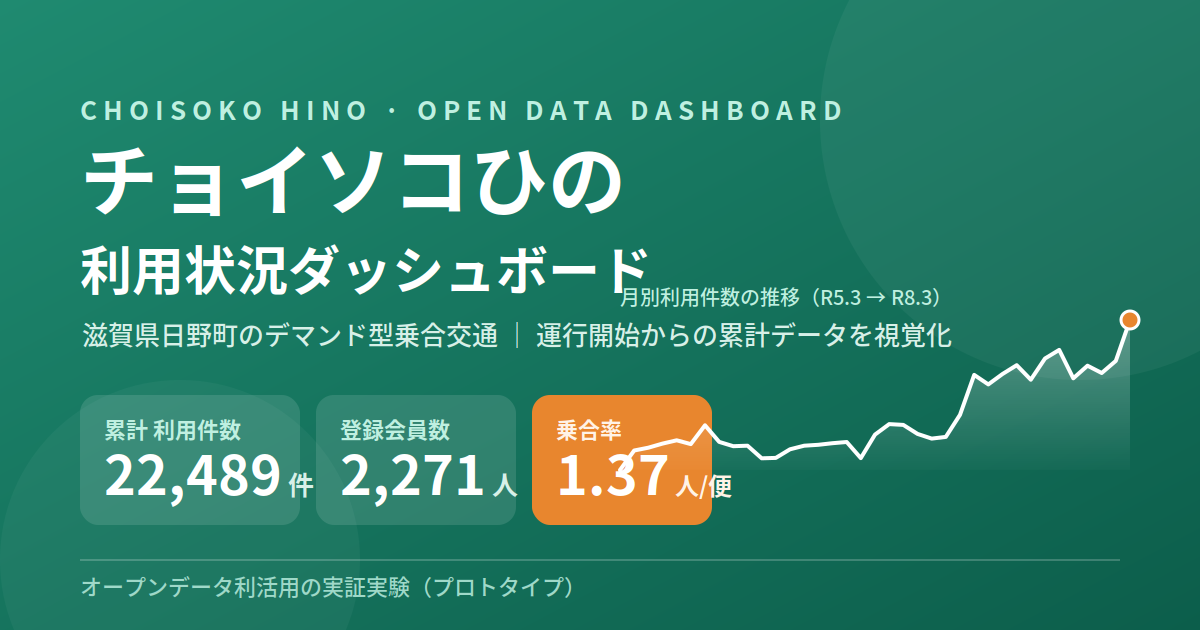
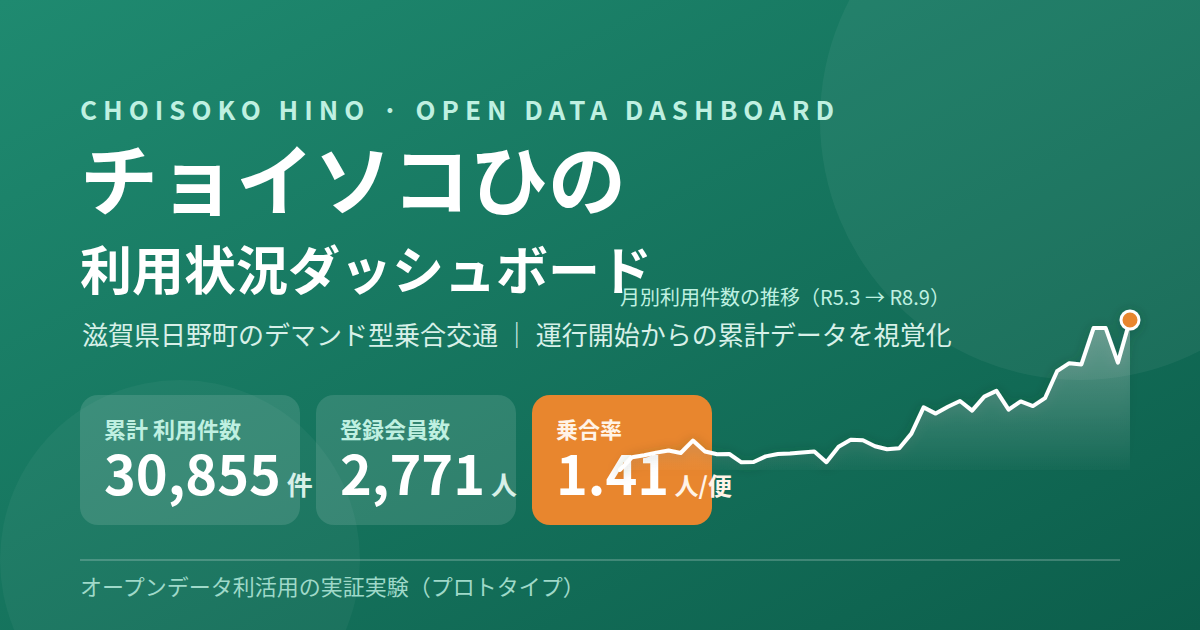
令和8年9月末までの利用状況（R8.9）を追加
日野町公開の「チョイソコひの利用状況（R5.3.1〜R8.9.30 累計）」PDF から
データを抽出し、集計時点タブに R8.9（3年7か月）を追加。

- monthly.csv: R8.7〜R8.9 の3か月を追加（利用件数 1,553 / 1,249 / 1,624）
- monthly.csv: R8.6 の利用件数・1日当たり件数を R8.9 版の修正値に更新
  （1,544 件・70.1 件/日 → 1,554 件・70.6 件/日）
- monthly.csv: R7.2 / R7.3 の月別利用人数の取り違えを R7.3 版の記載どおり修正
  （128 / 129 → 129 / 128）
- monthly.csv: ラベル末尾が隠れている R8.4 の月別利用人数を 242 → 240（推定）に修正
- summary / age / hourly / weekday / booking_timing / booking_method: R8.9 行を追加
- stops.csv: 目的地停留所 上位15 を R8.9 累計に更新
- area.csv: 時点列を追加し、R8.6 と R8.9 の両方を収録
- index.html: 既定の集計時点を R8.9 に変更。地区テーブルを area.csv の時点で切り替え。
  原資料の男女内訳の合計が利用会員数と一致しない時点に注記を表示
- 出典: R8.9 版を追加。町サイトから掲載終了した R8.6 版は Internet Archive 保存版へ変更
- assets/ogp.svg, ogp.png: R8.3 のままだった数値と推移グラフを R8.9 に更新
- README.md: 上記の修正内容と原資料の不一致を追記

diff --git a/index.html b/index.html
@@ -15,7 +15,7 @@
 <meta property="og:image" content="https://kken78.github.io/choisoko-hino-dashboard/assets/ogp.png">
 <meta property="og:image:width" content="1200">
 <meta property="og:image:height" content="630">
-<meta property="og:image:alt" content="チョイソコひの 利用状況ダッシュボード — 累計利用件数22,489件、登録会員2,271人、乗合率1.37人/便">
+<meta property="og:image:alt" content="チョイソコひの 利用状況ダッシュボード — 累計利用件数30,855件、登録会員2,771人、乗合率1.41人/便">
 <meta property="og:site_name" content="チョイソコひの ダッシュボード">
 <meta property="og:locale" content="ja_JP">
 <meta name="twitter:card" content="summary_large_image">
@@ -179,7 +179,7 @@ body.embed section{padding:14px 0}
     <div class="eyebrow">CHOISOKO HINO · OPEN DATA DASHBOARD</div>
     <h1>チョイソコひの 利用状況ダッシュボード</h1>
     <p class="sub">滋賀県日野町のデマンド型乗合交通「チョイソコひの」の運行レポートを抽出・視覚化した、オープンデータ利活用の実証実験（プロトタイプ）です。運行開始（令和5年3月）からの累計データを掲載しています。</p>
-    <div class="period-badge" id="periodBadge">運行開始 令和5年3月 〜 最新 令和8年6月</div>
+    <div class="period-badge" id="periodBadge">運行開始 令和5年3月 〜 最新 令和8年9月</div>
   </div>
 </header>
 
@@ -191,7 +191,8 @@ body.embed section{padding:14px 0}
       <button data-t="R6.3">令和6年3月<small>（1年）</small></button>
       <button data-t="R7.3">令和7年3月<small>（2年）</small></button>
       <button data-t="R8.3">令和8年3月<small>（3年）</small></button>
-      <button data-t="R8.6" aria-pressed="true">令和8年6月<small>（3年3か月）</small></button>
+      <button data-t="R8.6">令和8年6月<small>（3年3か月）</small></button>
+      <button data-t="R8.9" aria-pressed="true">令和8年9月<small>（3年7か月）</small></button>
     </div>
   </div>
 </div>
@@ -243,6 +244,7 @@ body.embed section{padding:14px 0}
         <h3>男女比</h3>
         <p class="desc">登録・利用ともに女性が多数を占めます。</p>
         <div class="chart-box short"><canvas id="genderChart"></canvas></div>
+        <p id="genderNote" style="margin-top:8px;font-size:.74rem;color:var(--ink-soft)"></p>
       </div>
     </div>
   </section>
@@ -281,7 +283,7 @@ body.embed section{padding:14px 0}
   <section id="where">
     <div class="sec-head">
       <h2>どこへ行くか</h2>
-      <span class="note">運行開始からの累計（令和8年6月時点・上位15停留所）</span>
+      <span class="note">運行開始からの累計（令和8年9月時点・上位15停留所）</span>
     </div>
     <div class="card full">
       <h3>目的地停留所 乗降回数 上位15</h3>
@@ -337,7 +339,8 @@ body.embed section{padding:14px 0}
           <li><a href="https://www.town.shiga-hino.lg.jp/cmsfiles/contents/0000006/6854/riyoujyoukyouR6.3.pdf" target="_blank" rel="noopener">利用状況 令和6年3月末まで</a></li>
           <li><a href="https://www.town.shiga-hino.lg.jp/cmsfiles/contents/0000006/6854/riyoujyoukyouR7.3.pdf" target="_blank" rel="noopener">利用状況 令和7年3月末まで</a></li>
           <li><a href="https://www.town.shiga-hino.lg.jp/cmsfiles/contents/0000006/6854/riyoujyoukyouR8.3.pdf" target="_blank" rel="noopener">利用状況 令和8年3月末まで</a></li>
-          <li><a href="https://www.town.shiga-hino.lg.jp/cmsfiles/contents/0000006/6854/riyoujyoukyouR8.6.pdf" target="_blank" rel="noopener">利用状況 令和8年6月末まで</a></li>
+          <li><a href="https://web.archive.org/web/20260715074213/https://www.town.shiga-hino.lg.jp/cmsfiles/contents/0000006/6854/riyoujyoukyouR8.6.pdf" target="_blank" rel="noopener">利用状況 令和8年6月末まで（町サイトから掲載終了・Internet Archive保存版）</a></li>
+          <li><a href="https://www.town.shiga-hino.lg.jp/cmsfiles/contents/0000006/6854/riyoujyoukyouR8.9.pdf" target="_blank" rel="noopener">利用状況 令和8年9月末まで</a></li>
         </ul>
       </div>
     </div>
@@ -376,7 +379,8 @@ Chart.defaults.color = '#5a6b67';
 Chart.defaults.plugins.legend.labels.boxWidth = 12;
 Chart.defaults.plugins.legend.labels.boxHeight = 12;
 
-let state = { t:'R8.6' };
+const LATEST = 'R8.9';
+let state = { t:LATEST };
 const charts = {};
 const AGE_LABELS=['20歳未満','20歳代','30歳代','40歳代','50歳代','60歳代','70歳代','80歳代','90歳以上'];
 const fmt = n => Number(n).toLocaleString('ja-JP');
@@ -493,6 +497,11 @@ function renderWho(){
       plugins:{legend:{position:'top'}},
       scales:{x:{stacked:true,beginAtZero:true,title:{display:true,text:'人'}},y:{stacked:true,grid:{display:false}}}}
   });
+
+  // 原資料の男女内訳の合計が総数と一致しない時点は、その旨を明記する
+  const useSum = Number(cur['利用男性'])+Number(cur['利用女性']);
+  document.getElementById('genderNote').textContent = useSum!==Number(cur['利用会員数'])
+    ? `※原資料の男女内訳の合計（${fmt(useSum)}人）は、利用会員数（${fmt(cur['利用会員数'])}人）と一致しません。` : '';
 }
 
 // ===================== 時間帯・曜日・予約 =====================
@@ -587,10 +596,11 @@ function renderDistrict(){
     </tr>`;
   };
 
-  if(state.t === 'R8.6'){
-    const d = DATA.area;
+  const areaRows = DATA.area.filter(r=>r['時点']===state.t);
+  if(areaRows.length){
+    const d = areaRows;
     const max = Math.max(...d.map(r=>Number(r['予約件数'])));
-    note.textContent = '令和8年6月時点・累計 ／ 予約件数の多い順';
+    note.textContent = `${wareki(state.t)}時点・累計 ／ 予約件数の多い順`;
     head.innerHTML = '<th>地区</th><th>登録者数</th><th>利用者数</th><th>利用者割合</th><th>予約件数</th>';
     tb.innerHTML = d.map(r=>row(r['地区名'],r['登録者数'],r['利用者数'],r['利用割合'],r['予約件数'],max)).join('');
     foot.textContent = '※令和8年6月末の報告書から、集計単位が「統計地区（32地区＋その他）」から「地区（9区分）」に変わりました。「利用者割合」は全利用者に占める割合です。「一時利用」は会員登録を行わない観光客・訪問者等、「日野」は目的地停留所ベースの集計です。';
@@ -633,7 +643,7 @@ function applyEmbed(){
 
   renderTrend();   // 全期間共通
   renderStops();   // 最新固定
-  setTime('R8.6'); // 時点依存（KPI・年代・予約・地区）をまとめて描画
+  setTime(LATEST); // 時点依存（KPI・年代・予約・地区）をまとめて描画
 
   // ハッシュで開始位置
   if(location.hash){

diff --git a/README.md b/README.md
@@ -8,8 +8,8 @@
 
 ## 🚀 主な特徴
 
-1. **「累計5時点」を切り替えられる構成**
-   チョイソコひのの運行レポートは、運行開始（令和5年3月）からの**累計**で発行されています。本ダッシュボードは R5.3（初月）／ R6.3（1年）／ R7.3（2年）／ R8.3（3年）／ R8.6（3年3か月）の5時点を上部のタブで切り替え、登録・利用会員数や年代構成などのスナップショットを比較できます。
+1. **「累計6時点」を切り替えられる構成**
+   チョイソコひのの運行レポートは、運行開始（令和5年3月）からの**累計**で発行されています。本ダッシュボードは R5.3（初月）／ R6.3（1年）／ R7.3（2年）／ R8.3（3年）／ R8.6（3年3か月）／ R8.9（3年7か月）の6時点を上部のタブで切り替え、登録・利用会員数や年代構成などのスナップショットを比較できます。
 
 2. **利用の伸びが一目でわかる月別推移**
    利用件数・1日当たり件数・月別利用人数を、運行開始からの全月で連続表示します。令和5年9月の**無償→有償運行**への移行も明示しています。
@@ -34,16 +34,16 @@
 
 | ファイル | 内容 |
 | --- | --- |
-| `summary.csv` | 5時点の累計サマリー（登録・利用会員数、利用件数、利用人数、乗合率、男女比、予約方法比、路線数） |
-| `monthly.csv` | 月別の利用件数・1日当たり件数・月別利用人数（運行開始〜R8.6、運行区分付き） |
+| `summary.csv` | 6時点の累計サマリー（登録・利用会員数、利用件数、利用人数、乗合率、男女比、予約方法比、路線数） |
+| `monthly.csv` | 月別の利用件数・1日当たり件数・月別利用人数（運行開始〜R8.9、運行区分付き） |
 | `age.csv` | 年代別構成（登録／利用、各時点、％） |
 | `hourly.csv` | 時間帯別利用割合（％） |
 | `weekday.csv` | 曜日別 1日あたり平均利用件数 |
 | `booking_timing.csv` | 予約時期割合（％） |
 | `booking_method.csv` | 予約方法割合（WEB／電話、％） |
-| `stops.csv` | 目的地停留所 乗降回数 上位15（R8.6累計） |
+| `stops.csv` | 目的地停留所 乗降回数 上位15（R8.9累計） |
 | `district.csv` | 統計地区別の利用状況（R8.3累計・32地区＋その他） |
-| `area.csv` | 地区別の利用状況（R8.6累計・9区分。R8.6報告書から集計単位が変更） |
+| `area.csv` | 地区別の利用状況（R8.6・R8.9累計、`時点` 列で区別・9区分。R8.6報告書から集計単位が変更） |
 
 **出典:** 日野町公式サイト「[チョイソコひの](https://www.town.shiga-hino.lg.jp/0000006854.html)」で公開されている利用状況レポート（PDF）
 
@@ -51,7 +51,8 @@
 - [利用状況 令和6年3月末まで](https://www.town.shiga-hino.lg.jp/cmsfiles/contents/0000006/6854/riyoujyoukyouR6.3.pdf)
 - [利用状況 令和7年3月末まで](https://www.town.shiga-hino.lg.jp/cmsfiles/contents/0000006/6854/riyoujyoukyouR7.3.pdf)
 - [利用状況 令和8年3月末まで](https://www.town.shiga-hino.lg.jp/cmsfiles/contents/0000006/6854/riyoujyoukyouR8.3.pdf)
-- [利用状況 令和8年6月末まで](https://www.town.shiga-hino.lg.jp/cmsfiles/contents/0000006/6854/riyoujyoukyouR8.6.pdf)
+- [利用状況 令和8年6月末まで](https://web.archive.org/web/20260715074213/https://www.town.shiga-hino.lg.jp/cmsfiles/contents/0000006/6854/riyoujyoukyouR8.6.pdf)（R8.9版の掲載に伴い町サイトから掲載終了のため、Internet Archive の保存版）
+- [利用状況 令和8年9月末まで](https://www.town.shiga-hino.lg.jp/cmsfiles/contents/0000006/6854/riyoujyoukyouR8.9.pdf)
 
 ## 🛠 ローカルでの確認
 
@@ -67,8 +68,13 @@ python3 -m http.server 8000
 - 本リポジトリの CSV は公開 PDF から独自に抽出したものです。読み取り誤差や変換ミスを含む可能性があるため、正確な数値が必要な場合は必ず日野町の公式資料をご確認ください。
 - 一部の月別利用人数・年代別構成は、原資料でのラベル・数値の重なりにより読み取りに幅があります。とくに `monthly.csv` の 2025-05（R7.5）の月別利用人数は、原資料でデータラベルが隣のラベルに完全に隠れているため、棒の高さから推定した値（162 ≒ ±1）です。
 - R8.6 版報告書の記載に合わせ、2025-05〜2026-01 の月別利用人数を修正しました（旧版からの読み取り時にラベルと棒の対応がずれていたため）。
-- R8.6 の累計サマリーのうち「利用人数」「1日当たり利用件数」「1日当たり利用人数」「路線数」は R8.6 版報告書に記載がないため空欄です。
-- R8.6 の乗合率（1.32 人/便）は原資料に「月中」と注記されており、R8.3 以前の値とは集計基準が異なる可能性があります。
+- 2026-06（R8.6）の利用件数・1日当たり件数は、R8.6 版の 1,544 件・70.1 件/日 から、R8.9 版の記載に合わせて 1,554 件・70.6 件/日 に更新しました。
+- 2025-02（R7.2）と 2025-03（R7.3）の月別利用人数は取り違えていたため、R7.3 版の記載どおり 129 人・128 人に修正しました。
+- 2026-04（R8.4）の月別利用人数は、原資料でラベル末尾が隠れています（「24」までは判読可）。隠れた数字の下部の形と棒の高さから推定した値（240）です。
+- R8.6・R8.9 の累計サマリーのうち「利用人数」「1日当たり利用件数」「1日当たり利用人数」「路線数」は報告書に記載がないため空欄です。
+- R8.6・R8.9 の `summary.csv` の「利用件数」は、報告書の地区別表の「予約件数」合計（R8.9: 30,855 件）です。月別利用件数の合計（R8.9 時点で 30,962 件）とは一致しません。
+- R8.9 版の利用会員の男女内訳（男性 309 人・女性 655 人、計 964 人）は、同じ資料の利用会員数（1,009 人）と一致しません。原資料の記載のまま収録しています。
+- R8.6・R8.9 の乗合率（1.32・1.41 人/便）は原資料に「月中」と注記されており、R8.3 以前の値とは集計基準が異なる可能性があります。
 - 本プロジェクトは日野町の公式システムではなく、オープンデータ推進のための実証実験（プロトタイプ）です。予告なく仕様変更・公開停止する場合があります。
 
 ## 📄 ライセンス
